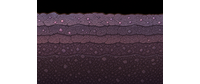
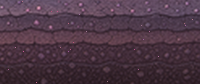
Solidify cave floor tiles so banks no longer show sky holes.
Opaque edge-to-edge crust and dirt underfill keep the cave trail solid below the walk surface.

diff --git a/tools/fix_cave_visuals.py b/tools/fix_cave_visuals.py
@@ -478,6 +478,91 @@ def densify_tile(path: Path, size: tuple[int, int]) -> None:
     print(f"{path.name}: densified, filled≈{filled}, clear%={_clear_pct(canvas):.1f}")
 
 
+def solidify_cave_floor_tile(path: Path, size: tuple[int, int]) -> None:
+    """Force a fully opaque cave floor/dirt tile (no side margins / sky holes when tiled)."""
+    import math
+    import random
+
+    im = Image.open(path).convert("RGBA")
+    bbox = im.getbbox()
+    if bbox is None:
+        return
+    fig = im.crop(bbox)
+    tw, th = size
+    fw, fh = fig.size
+    # Cover-scale so rock spans the full tile, then crop center.
+    scale = max(tw / fw, th / fh) * 1.02
+    nw, nh = max(1, round(fw * scale)), max(1, round(fh * scale))
+    fig = fig.resize((nw, nh), Image.LANCZOS)
+    ox = (nw - tw) // 2
+    oy = (nh - th) // 2
+    canvas = fig.crop((ox, oy, ox + tw, oy + th)).convert("RGBA")
+    px = canvas.load()
+    w, h = canvas.size
+
+    samples: list[tuple[int, int, int]] = []
+    for y in range(0, h, 2):
+        for x in range(0, w, 2):
+            r, g, b, a = px[x, y]
+            if a >= 180:
+                samples.append((r, g, b))
+    if samples:
+        base = (
+            sum(c[0] for c in samples) // len(samples),
+            sum(c[1] for c in samples) // len(samples),
+            sum(c[2] for c in samples) // len(samples),
+        )
+    else:
+        base = (58, 48, 68)
+
+    rng = random.Random(91 + tw + th)
+
+    def rock_at(x: int, y: int) -> tuple[int, int, int, int]:
+        for radius in range(1, 12):
+            found: list[tuple[int, int, int]] = []
+            for dx in range(-radius, radius + 1):
+                for dy in range(-radius, radius + 1):
+                    nx, ny = x + dx, y + dy
+                    if 0 <= nx < w and 0 <= ny < h:
+                        rr, gg, bb, aa = px[nx, ny]
+                        if aa >= 180:
+                            found.append((rr, gg, bb))
+            if found:
+                sr = sum(c[0] for c in found) // len(found)
+                sg = sum(c[1] for c in found) // len(found)
+                sb = sum(c[2] for c in found) // len(found)
+                return (sr, sg, sb, 255)
+        n = int(math.sin(x * 0.11) * 6 + math.cos(y * 0.17) * 5)
+        return (
+            max(20, min(120, base[0] + n + rng.randint(-4, 4))),
+            max(16, min(100, base[1] + n + rng.randint(-4, 4))),
+            max(28, min(130, base[2] + n + rng.randint(-4, 4))),
+            255,
+        )
+
+    filled = 0
+    for y in range(h):
+        for x in range(w):
+            if px[x, y][3] >= 250:
+                continue
+            px[x, y] = rock_at(x, y)
+            filled += 1
+
+    for _ in range(max(12, (w * h) // 700)):
+        x = rng.randint(1, w - 2)
+        y = rng.randint(1, h - 2)
+        pr = 170 + rng.randint(-20, 30)
+        pg = 95 + rng.randint(-15, 25)
+        pb = 135 + rng.randint(-20, 25)
+        px[x, y] = (pr, pg, pb, 255)
+
+    _save(canvas, path)
+    clear = _clear_pct(canvas)
+    print(f"{path.name}: solidified, filled≈{filled}, clear%={clear:.1f}")
+    if clear > 0.05:
+        raise RuntimeError(f"{path.name} still has transparent pixels after solidify ({clear:.1f}%)")
+
+
 def fix_bats() -> None:
     src = SOURCE / "cave_bat_strip_concept.png"
     cut = cutout(src, level=185)
@@ -1007,20 +1092,20 @@ def make_cave_ceiling_tile() -> None:
 def fix_floors() -> None:
     floor = OUT / "cave_floor_tile.png"
     dirt = OUT / "cave_dirt_tile.png"
-    # Prefer re-cut from source then densify to full tile size.
+    # Prefer re-cut from source then solidify edge-to-edge (no sky holes when tiled).
     floor_src = SOURCE / "cave_floor_concept.png"
     if floor_src.is_file():
         cut = cutout(floor_src, level=185)
         framed = _fit(cut, (200, 84))
         _save(framed, floor)
-    densify_tile(floor, (200, 84))
+    solidify_cave_floor_tile(floor, (200, 84))
 
     dirt_src = SOURCE / "cave_dirt_concept.png"
     if dirt_src.is_file():
         cut = cutout(dirt_src, level=185)
         framed = _fit(cut, (200, 38))
         _save(framed, dirt)
-    densify_tile(dirt, (200, 38))
+    solidify_cave_floor_tile(dirt, (200, 38))
 
 
 def _rightmost_opaque_x(im: Image.Image, *, alpha_thresh: int = 8) -> int | None:
@@ -1089,6 +1174,8 @@ def verify() -> None:
         if p.is_file():
             im = Image.open(p).convert("RGBA")
             print(f"{name}: size={im.size} clear%={_clear_pct(im):.1f}")
+            if name in ("cave_floor_tile.png", "cave_dirt_tile.png") and _clear_pct(im) > 0.05:
+                raise RuntimeError(f"{name} must be fully opaque (got clear%={_clear_pct(im):.1f})")
 
 
 def main() -> int:

diff --git a/tools/build_cave_art.py b/tools/build_cave_art.py
@@ -217,6 +217,14 @@ def main() -> int:
         out.save(dest)
         print(f"wrote {dest.relative_to(ROOT)}")
 
+    # Floor/dirt must be fully opaque after framing (tiling shows sky through margins).
+    from tools.fix_cave_visuals import solidify_cave_floor_tile
+
+    for name, size in (("cave_floor_tile.png", (200, 84)), ("cave_dirt_tile.png", (200, 38))):
+        path = OUT_DIR / name
+        if path.is_file():
+            solidify_cave_floor_tile(path, size)
+
     # Clear opaque bow-triangle fill, then crystal bounty = magenta tint of bases.
     from PIL import Image
 

diff --git a/docs/cave_biome.md b/docs/cave_biome.md
@@ -66,7 +66,7 @@ Stamp a **ladder**, run **one-way crystal ledges** along the climb top, then **d
 2. **Crystal ledge** — platform art: cool stone plank with crystal flecks (replaces wood plank look).
 3. **Glow shard** (optional future pickup) — brief silhouette of drip/stalactite danger columns; not required for v1 playability.
 4. **Cave wash backdrop** — no sun/mesas; deep `cave_sky` wash that meets the trail floor + hanging rock ceiling. Solid `cave_ceiling_fill` closes the sky gap above the camera; the wavy lip (`cave_ceiling_tile`) sits about **2cm (~76px)** below the top of a normal grounded view with sparse droppable stalactite teeth fused under it (**Dragon Gate** and the **Cave Dragon** arena keep a clean rock band with no teeth). Rock band is solid (`FlightCeilingCave`); touching it while flying respawns at camp.
-5. **Mineral vein floor** — dense cool stone crust with pink crystal flecks; underfill is deep slate (no tile holes showing sky).
+5. **Mineral vein floor** — dense cool stone crust with pink crystal flecks; underfill dirt is a **fully opaque** slate tile (no transparent side margins / sky holes when tiled); deep `FloorAbyss` slate under the bank.
 ## Campaign note
 
 Builtin **Outlaw Cave** (level 5) and cave arc **levels 11–15** (`Crystal Mouth` → `Dragon Gate`) use `"style": "cave"`. After Dragon Gate the **Cave Dragon** boss flies left↔right below the ceiling (facing travel direction, wing-flap + landing poses), spits a few flameballs in a straight line toward the cowboy (2 rounds × 2 shots), lands for a lasso, then repeats; after three lassos his mouth is tied and the campaign victory plays. Workshop imports for 11–15 use the stamp catalog in `CaveCampaignLevels`. Custom trails can pick Cave style freely.

diff --git a/README.md b/README.md
@@ -2,7 +2,7 @@
 
 Child-friendly 2D western cowboy platformer (Godot **4.4**). Aimed at kids ~6: forgiving jumps, nonviolent lasso. **Classic mode** has no lives or game over; **Advanced Mode** (chosen in **Settings** before starting or continuing a slot) adds a three-life limit, badge milestones, and a game-over return to the start screen. Pick **Cowboy** or **Cowgirl** in Settings — the choice applies across all save slots. **German is the default language**; English is fully supported.
 
-**Content version:** `1.8.19` (see `content_version.txt`). Launchers reimport when this stamp changes.
+**Content version:** `1.8.20` (see `content_version.txt`). Launchers reimport when this stamp changes.
 
 This README is the **binding source of truth** for gameplay, level design, art, i18n, and audio. Agents and contributors must follow it (see [Agent / contributor rules](#agent--contributor-rules)).
 
